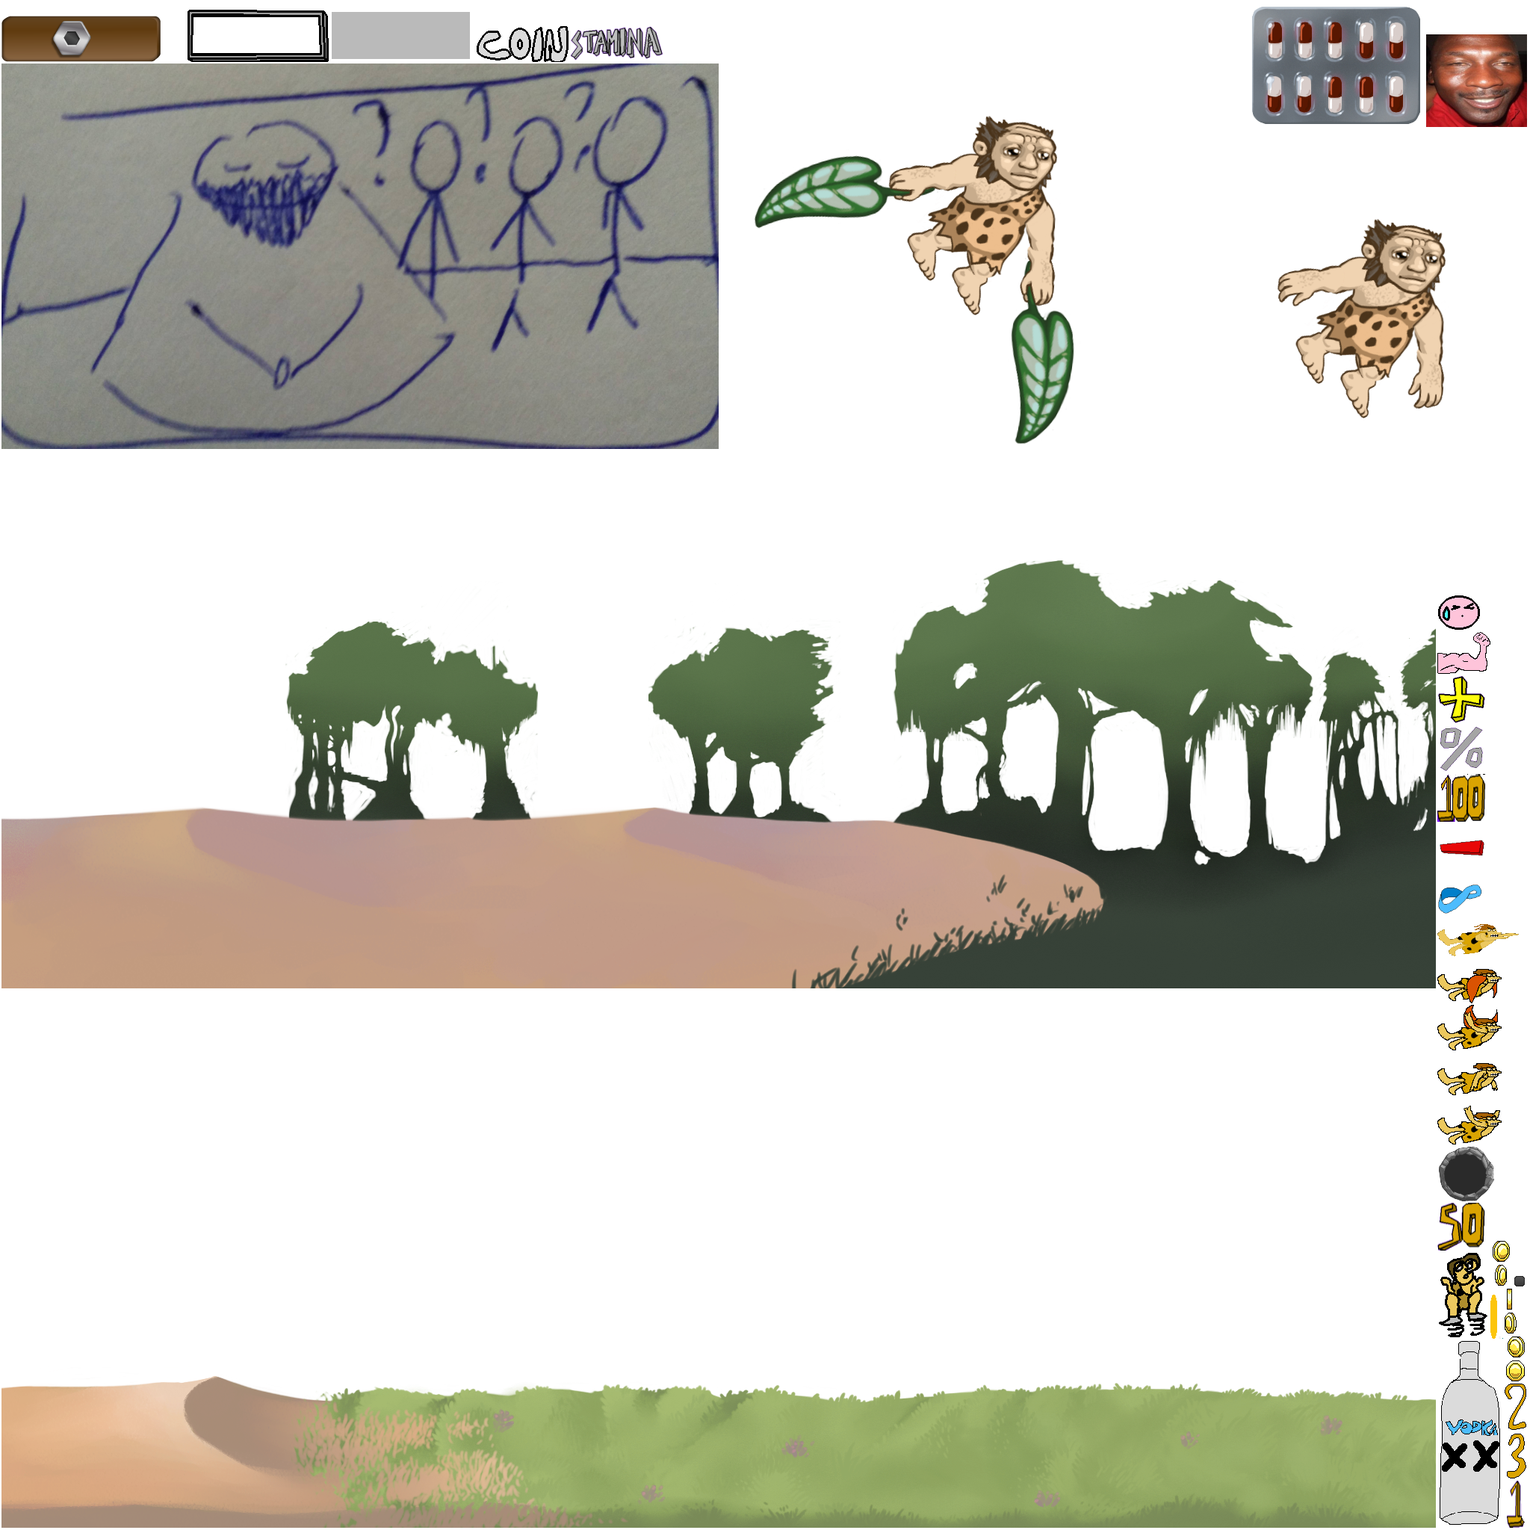
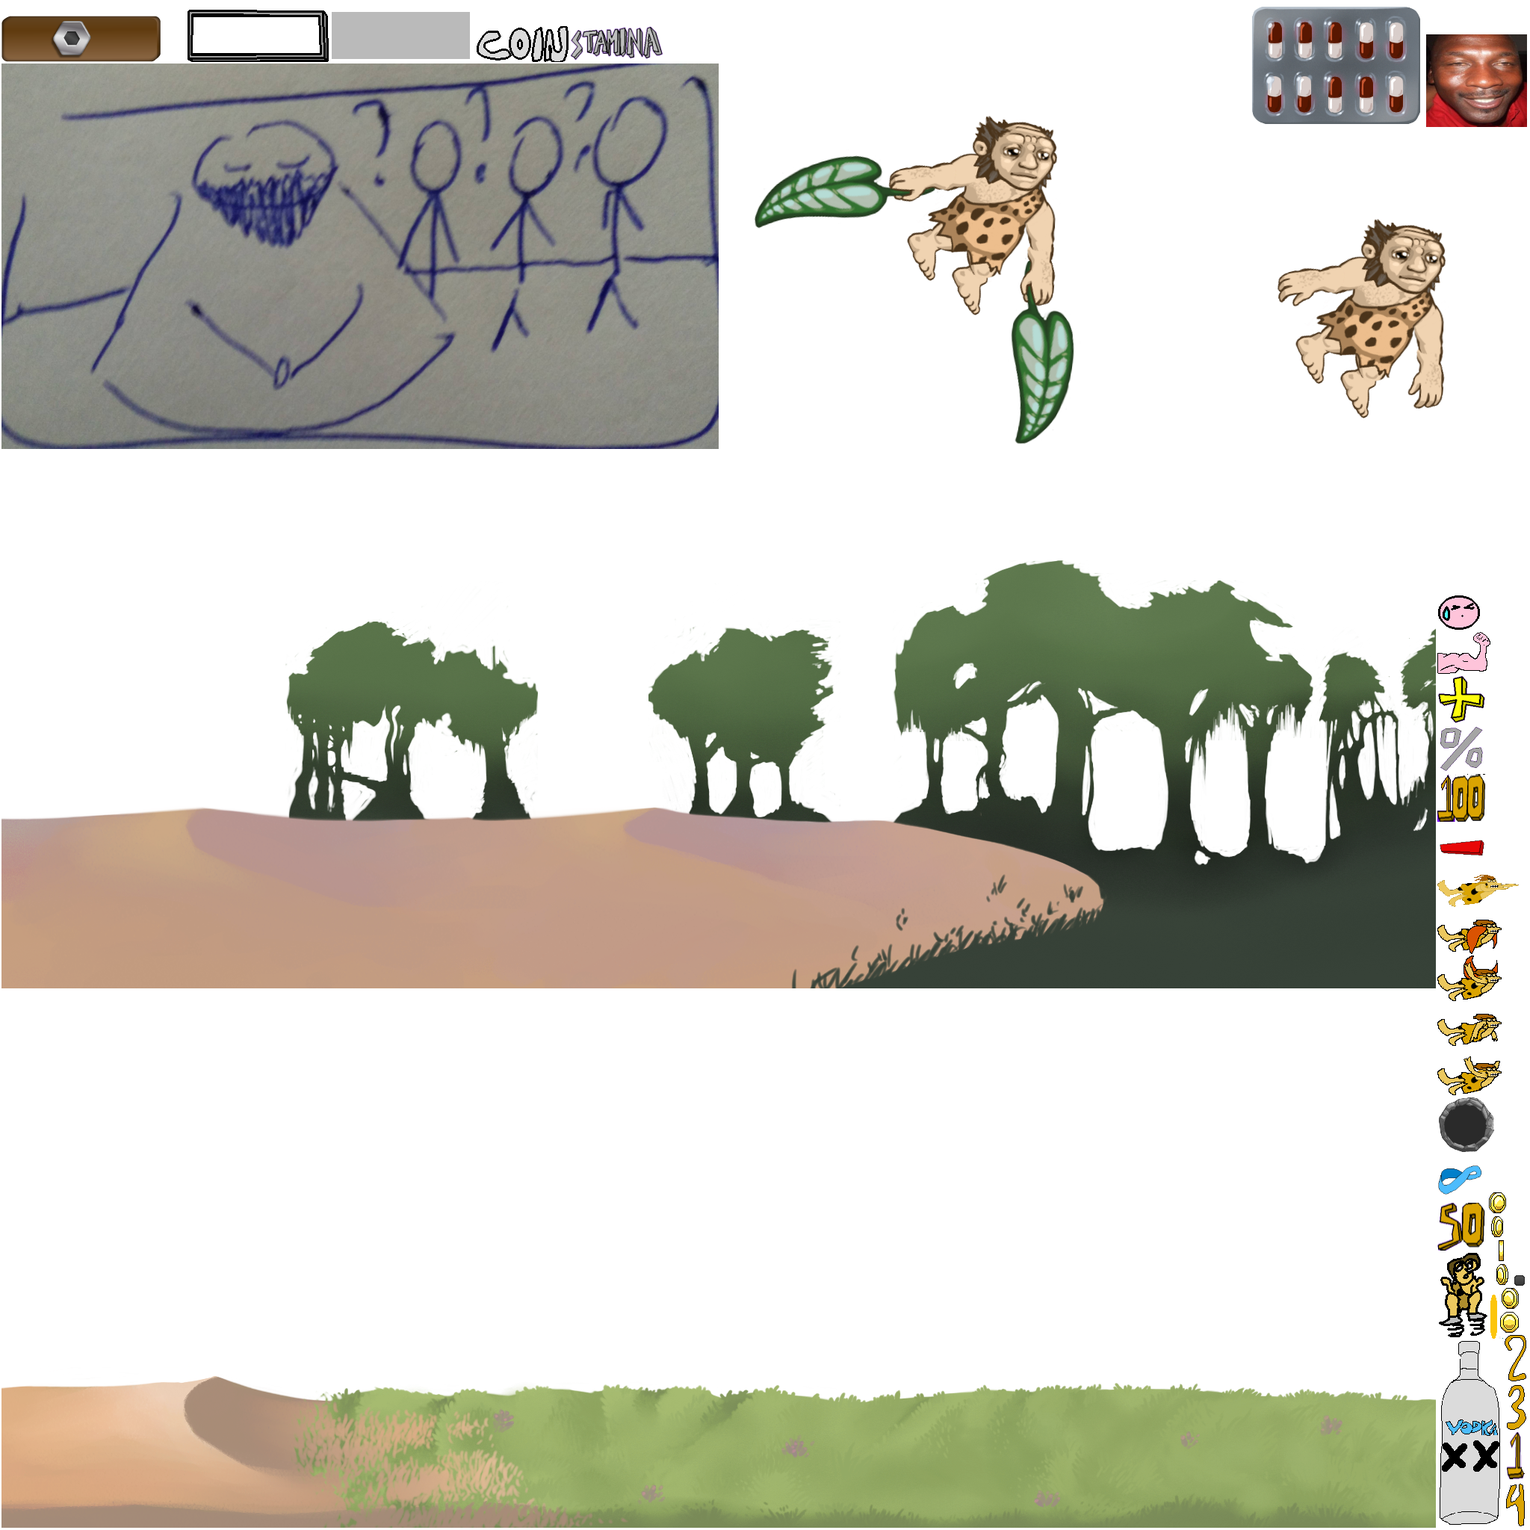
:trihard:  coin streak feedback UI

Changed region(s): [[0.9375, 0.5625, 1.0, 1.0]]

diff --git a/core/src/com/deeep/flycaveman/widgets/PickupsWidget.java b/core/src/com/deeep/flycaveman/widgets/PickupsWidget.java
@@ -13,7 +13,7 @@ import com.deeep.flycaveman.entities.PowerUp;
  * Created by scanevaro on 07/04/2015.
  */
 public class PickupsWidget extends Actor {
-    private Image stamina, percentage, plus, minus, infinite, one, five;
+    private Image stamina, percentage, plus, minus, infinite, one, five, coin, oneCoin, twoCoin, threeCoin, fourCoin;
 
     public PickupsWidget() {
         stamina = new Image(Assets.staminaText);
@@ -41,6 +41,21 @@ public class PickupsWidget extends Actor {
         minus.setSize(minus.getPrefWidth(), minus.getPrefHeight());
         minus.setPosition(-minus.getWidth() - five.getWidth() - percentage.getWidth(),
                 Core.VIRTUAL_HEIGHT / 2 - (minus.getHeight() / 2) + 50);
+        coin = new Image(Assets.coinText);
+        coin.setSize(coin.getPrefWidth(), coin.getPrefHeight());
+        coin.setPosition(-coin.getWidth() - 20, Core.VIRTUAL_HEIGHT / 2 - (coin.getHeight() * 2) + 50);
+        oneCoin = new Image(Assets.oneCoin);
+        oneCoin.setSize(oneCoin.getPrefWidth(), oneCoin.getPrefHeight());
+        oneCoin.setPosition(-oneCoin.getWidth() - 20, Core.VIRTUAL_HEIGHT / 2 - (oneCoin.getHeight() / 2) + 50);
+        twoCoin = new Image(Assets.twoCoin);
+        twoCoin.setSize(twoCoin.getPrefWidth(), twoCoin.getPrefHeight());
+        twoCoin.setPosition(-twoCoin.getWidth() - 20, Core.VIRTUAL_HEIGHT / 2 - (twoCoin.getHeight() / 2) + 50);
+        threeCoin = new Image(Assets.threeCoin);
+        threeCoin.setSize(threeCoin.getPrefWidth(), threeCoin.getPrefHeight());
+        threeCoin.setPosition(-threeCoin.getWidth() - 20, Core.VIRTUAL_HEIGHT / 2 - (threeCoin.getHeight() / 2) + 50);
+        fourCoin = new Image(Assets.fourCoin);
+        fourCoin.setSize(fourCoin.getPrefWidth(), fourCoin.getPrefHeight());
+        fourCoin.setPosition(-fourCoin.getWidth() - 20, Core.VIRTUAL_HEIGHT / 2 - (fourCoin.getHeight() / 2) + 50);
     }
 
     @Override
@@ -53,6 +68,11 @@ public class PickupsWidget extends Actor {
         percentage.act(delta);
         one.act(delta);
         five.act(delta);
+        coin.act(delta);
+        oneCoin.act(delta);
+        twoCoin.act(delta);
+        threeCoin.act(delta);
+        fourCoin.act(delta);
     }
 
     @Override
@@ -64,97 +84,187 @@ public class PickupsWidget extends Actor {
         percentage.draw(batch, parentAlpha);
         one.draw(batch, parentAlpha);
         five.draw(batch, parentAlpha);
+        coin.draw(batch, parentAlpha);
+        oneCoin.draw(batch, parentAlpha);
+        twoCoin.draw(batch, parentAlpha);
+        threeCoin.draw(batch, parentAlpha);
+        fourCoin.draw(batch, parentAlpha);
+    }
+
+    public void show(int coinStreak) {
+        switch (coinStreak) {
+            case 0:
+                coin.addAction(new SequenceAction(
+                        Actions.moveTo(20, Core.VIRTUAL_HEIGHT / 2 - (coin.getHeight() * 2) + 50, 0.2f),
+                        Actions.scaleBy(0.25f, 0.25f, 0.2f), Actions.scaleBy(-0.25f, -0.25f, 0.2f),
+                        Actions.delay(0.35f),
+                        Actions.moveTo(-coin.getWidth() - 20,
+                                Core.VIRTUAL_HEIGHT / 2 - (coin.getHeight() * 2) + 50, 0.2f)));
+                oneCoin.addAction(new SequenceAction(
+                        Actions.moveTo(64, Core.VIRTUAL_HEIGHT / 2 - (oneCoin.getHeight() / 2) + 50, 0.2f),
+                        Actions.scaleBy(0.25f, 0.25f, 0.2f), Actions.scaleBy(-0.25f, -0.25f, 0.2f),
+                        Actions.delay(0.35f),
+                        Actions.moveTo(-oneCoin.getWidth(),
+                                Core.VIRTUAL_HEIGHT / 2 - (oneCoin.getHeight() / 2) + 50, 0.2f)));
+                plus.addAction(new SequenceAction(
+                        Actions.moveTo(0, Core.VIRTUAL_HEIGHT / 2 - (plus.getHeight() / 2) + 50, 0.2f),
+                        Actions.scaleBy(0.25f, 0.25f, 0.2f), Actions.scaleBy(-0.25f, -0.25f, 0.2f),
+                        Actions.delay(0.35f),
+                        Actions.moveTo(-plus.getWidth() - oneCoin.getWidth(),
+                                Core.VIRTUAL_HEIGHT / 2 - (plus.getHeight() / 2) + 50, 0.2f)));
+                break;
+            case 1:
+                coin.addAction(new SequenceAction(
+                        Actions.moveTo(20, Core.VIRTUAL_HEIGHT / 2 - (coin.getHeight() * 2) + 50, 0.2f),
+                        Actions.scaleBy(0.35f, 0.35f, 0.2f), Actions.scaleBy(-0.35f, -0.35f, 0.2f),
+                        Actions.delay(0.35f),
+                        Actions.moveTo(-coin.getWidth() - 20,
+                                Core.VIRTUAL_HEIGHT / 2 - (coin.getHeight() * 2) + 50, 0.2f)));
+                twoCoin.addAction(new SequenceAction(
+                        Actions.moveTo(64, Core.VIRTUAL_HEIGHT / 2 - (twoCoin.getHeight() / 2) + 50, 0.2f),
+                        Actions.scaleBy(0.35f, 0.35f, 0.2f), Actions.scaleBy(-0.35f, -0.35f, 0.2f),
+                        Actions.delay(0.35f),
+                        Actions.moveTo(-twoCoin.getWidth(),
+                                Core.VIRTUAL_HEIGHT / 2 - (twoCoin.getHeight() / 2) + 50, 0.2f)));
+                plus.addAction(new SequenceAction(
+                        Actions.moveTo(0, Core.VIRTUAL_HEIGHT / 2 - (plus.getHeight() / 2) + 50, 0.2f),
+                        Actions.scaleBy(0.35f, 0.35f, 0.2f), Actions.scaleBy(-0.35f, -0.35f, 0.2f),
+                        Actions.delay(0.35f),
+                        Actions.moveTo(-plus.getWidth() - twoCoin.getWidth(),
+                                Core.VIRTUAL_HEIGHT / 2 - (plus.getHeight() / 2) + 50, 0.2f)));
+                break;
+            case 2:
+                coin.addAction(new SequenceAction(
+                        Actions.moveTo(20, Core.VIRTUAL_HEIGHT / 2 - (coin.getHeight() * 2) + 50, 0.2f),
+                        Actions.scaleBy(0.45f, 0.45f, 0.2f), Actions.scaleBy(-0.45f, -0.45f, 0.2f),
+                        Actions.delay(0.35f),
+                        Actions.moveTo(-coin.getWidth() - 20,
+                                Core.VIRTUAL_HEIGHT / 2 - (coin.getHeight() * 2) + 50, 0.3f)));
+                threeCoin.addAction(new SequenceAction(
+                        Actions.moveTo(64, Core.VIRTUAL_HEIGHT / 2 - (threeCoin.getHeight() / 2) + 50, 0.2f),
+                        Actions.scaleBy(0.45f, 0.45f, 0.2f), Actions.scaleBy(-0.25f, -0.45f, 0.2f),
+                        Actions.delay(0.35f),
+                        Actions.moveTo(-threeCoin.getWidth(),
+                                Core.VIRTUAL_HEIGHT / 2 - (threeCoin.getHeight() / 2) + 50, 0.2f)));
+                plus.addAction(new SequenceAction(
+                        Actions.moveTo(0, Core.VIRTUAL_HEIGHT / 2 - (plus.getHeight() / 2) + 50, 0.2f),
+                        Actions.scaleBy(0.45f, 0.45f, 0.2f), Actions.scaleBy(-0.25f, -0.45f, 0.2f),
+                        Actions.delay(0.35f),
+                        Actions.moveTo(-plus.getWidth() - threeCoin.getWidth(),
+                                Core.VIRTUAL_HEIGHT / 2 - (plus.getHeight() / 2) + 50, 0.2f)));
+                break;
+            case 3:
+                coin.addAction(new SequenceAction(
+                        Actions.moveTo(20, Core.VIRTUAL_HEIGHT / 2 - (coin.getHeight() * 2) + 50, 0.2f),
+                        Actions.scaleBy(0.55f, 0.55f, 0.2f), Actions.scaleBy(-0.55f, -0.55f, 0.2f),
+                        Actions.delay(0.35f),
+                        Actions.moveTo(-coin.getWidth() - 20,
+                                Core.VIRTUAL_HEIGHT / 2 - (coin.getHeight() * 2) + 50, 0.2f)));
+                fourCoin.addAction(new SequenceAction(
+                        Actions.moveTo(128, Core.VIRTUAL_HEIGHT / 2 - (fourCoin.getHeight() / 2) + 50, 0.2f),
+                        Actions.scaleBy(0.55f, 0.55f, 0.2f), Actions.scaleBy(-0.55f, -0.55f, 0.2f),
+                        Actions.delay(0.35f),
+                        Actions.moveTo(-fourCoin.getWidth(),
+                                Core.VIRTUAL_HEIGHT / 2 - (fourCoin.getHeight() / 2) + 50, 0.2f)));
+                plus.addAction(new SequenceAction(
+                        Actions.moveTo(0, Core.VIRTUAL_HEIGHT / 2 - (plus.getHeight() / 2) + 50, 0.2f),
+                        Actions.scaleBy(0.55f, 0.55f, 0.2f), Actions.scaleBy(-0.55f, -0.55f, 0.2f),
+                        Actions.delay(0.35f),
+                        Actions.moveTo(-plus.getWidth() - fourCoin.getWidth(),
+                                Core.VIRTUAL_HEIGHT / 2 - (plus.getHeight() / 2) + 50, 0.2f)));
+                break;
+        }
     }
 
     public void show(PowerUp.Type type) {
         if (type == PowerUp.Type.VODKA) {
             stamina.addAction(new SequenceAction(
-                    Actions.moveTo(20, Core.VIRTUAL_HEIGHT / 2 - (stamina.getHeight() * 2) + 50, 0.3f),
+                    Actions.moveTo(20, Core.VIRTUAL_HEIGHT / 2 - (stamina.getHeight() * 2) + 50, 0.2f),
                     Actions.scaleBy(0.25f, 0.25f, 0.2f), Actions.scaleBy(-0.25f, -0.25f, 0.2f),
                     Actions.delay(0.35f),
                     Actions.moveTo(-stamina.getWidth() - 20,
-                            Core.VIRTUAL_HEIGHT / 2 - (stamina.getHeight() * 2) + 50, 0.3f)));
+                            Core.VIRTUAL_HEIGHT / 2 - (stamina.getHeight() * 2) + 50, 0.2f)));
             percentage.addAction(new SequenceAction(
-                    Actions.moveTo(128, Core.VIRTUAL_HEIGHT / 2 - (percentage.getHeight() / 2) + 50, 0.3f),
+                    Actions.moveTo(128, Core.VIRTUAL_HEIGHT / 2 - (percentage.getHeight() / 2) + 50, 0.2f),
                     Actions.scaleBy(0.25f, 0.25f, 0.2f), Actions.scaleBy(-0.25f, -0.25f, 0.2f),
                     Actions.delay(0.35f),
                     Actions.moveTo(-percentage.getWidth(),
-                            Core.VIRTUAL_HEIGHT / 2 - (percentage.getHeight() / 2) + 50, 0.3f)));
+                            Core.VIRTUAL_HEIGHT / 2 - (percentage.getHeight() / 2) + 50, 0.2f)));
             five.addAction(new SequenceAction(
-                    Actions.moveTo(64, Core.VIRTUAL_HEIGHT / 2 - (five.getHeight() / 2) + 50, 0.3f),
+                    Actions.moveTo(64, Core.VIRTUAL_HEIGHT / 2 - (five.getHeight() / 2) + 50, 0.2f),
                     Actions.scaleBy(0.25f, 0.25f, 0.2f), Actions.scaleBy(-0.25f, -0.25f, 0.2f),
                     Actions.delay(0.35f),
                     Actions.moveTo(-five.getWidth() - percentage.getWidth(),
                             Core.VIRTUAL_HEIGHT / 2 - (five.getHeight() / 2) + 50, 0.3f)));
             minus.addAction(new SequenceAction(
-                    Actions.moveTo(0, Core.VIRTUAL_HEIGHT / 2 - (minus.getHeight() / 2) + 50, 0.3f),
+                    Actions.moveTo(0, Core.VIRTUAL_HEIGHT / 2 - (minus.getHeight() / 2) + 50, 0.2f),
                     Actions.scaleBy(0.25f, 0.25f, 0.2f), Actions.scaleBy(-0.25f, -0.25f, 0.2f),
                     Actions.delay(0.35f),
                     Actions.moveTo(-minus.getWidth() - five.getWidth() - percentage.getWidth(),
-                            Core.VIRTUAL_HEIGHT / 2 - (minus.getHeight() / 2) + 50, 0.3f)));
+                            Core.VIRTUAL_HEIGHT / 2 - (minus.getHeight() / 2) + 50, 0.2f)));
         } else if (type == PowerUp.Type.SPINACH) {
             stamina.addAction(new SequenceAction(
-                    Actions.moveTo(20, Core.VIRTUAL_HEIGHT / 2 - (stamina.getHeight() * 2) + 50, 0.3f),
+                    Actions.moveTo(20, Core.VIRTUAL_HEIGHT / 2 - (stamina.getHeight() * 2) + 50, 0.2f),
                     Actions.scaleBy(0.25f, 0.25f, 0.2f), Actions.scaleBy(-0.25f, -0.25f, 0.2f),
                     Actions.delay(0.35f),
                     Actions.moveTo(-stamina.getWidth() - 20,
-                            Core.VIRTUAL_HEIGHT / 2 - (stamina.getHeight() * 2) + 50, 0.3f)));
+                            Core.VIRTUAL_HEIGHT / 2 - (stamina.getHeight() * 2) + 50, 0.2f)));
             infinite.addAction(new SequenceAction(
-                    Actions.moveTo(45, Core.VIRTUAL_HEIGHT / 2 - (infinite.getHeight() / 2) + 50, 0.3f),
+                    Actions.moveTo(45, Core.VIRTUAL_HEIGHT / 2 - (infinite.getHeight() / 2) + 50, 0.2f),
                     Actions.scaleBy(0.25f, 0.25f, 0.2f), Actions.scaleBy(-0.25f, -0.25f, 0.2f),
                     Actions.delay(0.35f),
                     Actions.moveTo(-infinite.getWidth() - 45,
-                            Core.VIRTUAL_HEIGHT / 2 - (infinite.getHeight() / 2) + 50, 0.3f)));
+                            Core.VIRTUAL_HEIGHT / 2 - (infinite.getHeight() / 2) + 50, 0.2f)));
         } else if (type == PowerUp.Type.SODACAN) {
             stamina.addAction(new SequenceAction(
-                    Actions.moveTo(20, Core.VIRTUAL_HEIGHT / 2 - (stamina.getHeight() * 2) + 50, 0.3f),
+                    Actions.moveTo(20, Core.VIRTUAL_HEIGHT / 2 - (stamina.getHeight() * 2) + 50, 0.2f),
                     Actions.scaleBy(0.25f, 0.25f, 0.2f), Actions.scaleBy(-0.25f, -0.25f, 0.2f),
                     Actions.delay(0.35f),
                     Actions.moveTo(-stamina.getWidth() - 20,
-                            Core.VIRTUAL_HEIGHT / 2 - (stamina.getHeight() * 2) + 50, 0.3f)));
+                            Core.VIRTUAL_HEIGHT / 2 - (stamina.getHeight() * 2) + 50, 0.2f)));
             percentage.addAction(new SequenceAction(
-                    Actions.moveTo(128, Core.VIRTUAL_HEIGHT / 2 - (percentage.getHeight() / 2) + 50, 0.3f),
+                    Actions.moveTo(128, Core.VIRTUAL_HEIGHT / 2 - (percentage.getHeight() / 2) + 50, 0.2f),
                     Actions.scaleBy(0.25f, 0.25f, 0.2f), Actions.scaleBy(-0.25f, -0.25f, 0.2f),
                     Actions.delay(0.35f),
                     Actions.moveTo(-percentage.getWidth(),
-                            Core.VIRTUAL_HEIGHT / 2 - (percentage.getHeight() / 2) + 50, 0.3f)));
+                            Core.VIRTUAL_HEIGHT / 2 - (percentage.getHeight() / 2) + 50, 0.2f)));
             five.addAction(new SequenceAction(
-                    Actions.moveTo(64, Core.VIRTUAL_HEIGHT / 2 - (five.getHeight() / 2) + 50, 0.3f),
+                    Actions.moveTo(64, Core.VIRTUAL_HEIGHT / 2 - (five.getHeight() / 2) + 50, 0.2f),
                     Actions.scaleBy(0.25f, 0.25f, 0.2f), Actions.scaleBy(-0.25f, -0.25f, 0.2f),
                     Actions.delay(0.35f),
                     Actions.moveTo(-five.getWidth() - percentage.getWidth(),
-                            Core.VIRTUAL_HEIGHT / 2 - (five.getHeight() / 2) + 50, 0.3f)));
+                            Core.VIRTUAL_HEIGHT / 2 - (five.getHeight() / 2) + 50, 0.2f)));
             plus.addAction(new SequenceAction(
-                    Actions.moveTo(0, Core.VIRTUAL_HEIGHT / 2 - (plus.getHeight() / 2) + 50, 0.3f),
+                    Actions.moveTo(0, Core.VIRTUAL_HEIGHT / 2 - (plus.getHeight() / 2) + 50, 0.2f),
                     Actions.scaleBy(0.25f, 0.25f, 0.2f), Actions.scaleBy(-0.25f, -0.25f, 0.2f),
                     Actions.delay(0.35f),
                     Actions.moveTo(-plus.getWidth() - five.getWidth() - percentage.getWidth(),
-                            Core.VIRTUAL_HEIGHT / 2 - (plus.getHeight() / 2) + 50, 0.3f)));
+                            Core.VIRTUAL_HEIGHT / 2 - (plus.getHeight() / 2) + 50, 0.2f)));
         } else if (type == PowerUp.Type.MEAT) {
             stamina.addAction(new SequenceAction(
-                    Actions.moveTo(20, Core.VIRTUAL_HEIGHT / 2 - (stamina.getHeight() * 2) + 50, 0.3f),
+                    Actions.moveTo(20, Core.VIRTUAL_HEIGHT / 2 - (stamina.getHeight() * 2) + 50, 0.2f),
                     Actions.scaleBy(0.25f, 0.25f, 0.2f), Actions.scaleBy(-0.25f, -0.25f, 0.2f),
                     Actions.delay(0.35f),
                     Actions.moveTo(-stamina.getWidth() - 20,
-                            Core.VIRTUAL_HEIGHT / 2 - (stamina.getHeight() * 2) + 50, 0.3f)));
+                            Core.VIRTUAL_HEIGHT / 2 - (stamina.getHeight() * 2) + 50, 0.2f)));
             percentage.addAction(new SequenceAction(
-                    Actions.moveTo(128, Core.VIRTUAL_HEIGHT / 2 - (percentage.getHeight() / 2) + 50, 0.3f),
+                    Actions.moveTo(128, Core.VIRTUAL_HEIGHT / 2 - (percentage.getHeight() / 2) + 50, 0.2f),
                     Actions.scaleBy(0.25f, 0.25f, 0.2f), Actions.scaleBy(-0.25f, -0.25f, 0.2f),
                     Actions.delay(0.35f),
                     Actions.moveTo(-percentage.getWidth(),
-                            Core.VIRTUAL_HEIGHT / 2 - (percentage.getHeight() / 2) + 50, 0.3f)));
+                            Core.VIRTUAL_HEIGHT / 2 - (percentage.getHeight() / 2) + 50, 0.2f)));
             one.addAction(new SequenceAction(
-                    Actions.moveTo(64, Core.VIRTUAL_HEIGHT / 2 - (one.getHeight() / 2) + 50, 0.3f),
+                    Actions.moveTo(64, Core.VIRTUAL_HEIGHT / 2 - (one.getHeight() / 2) + 50, 0.2f),
                     Actions.scaleBy(0.25f, 0.25f, 0.2f), Actions.scaleBy(-0.25f, -0.25f, 0.2f),
                     Actions.delay(0.25f),
                     Actions.moveTo(-one.getWidth() - percentage.getWidth(),
-                            Core.VIRTUAL_HEIGHT / 2 - (one.getHeight() / 2) + 50, 0.3f)));
+                            Core.VIRTUAL_HEIGHT / 2 - (one.getHeight() / 2) + 50, 0.2f)));
             plus.addAction(new SequenceAction(
-                    Actions.moveTo(0, Core.VIRTUAL_HEIGHT / 2 - (plus.getHeight() / 2) + 50, 0.3f),
+                    Actions.moveTo(0, Core.VIRTUAL_HEIGHT / 2 - (plus.getHeight() / 2) + 50, 0.2f),
                     Actions.scaleBy(0.25f, 0.25f, 0.2f), Actions.scaleBy(-0.25f, -0.25f, 0.2f),
                     Actions.delay(0.35f),
                     Actions.moveTo(-plus.getWidth() - one.getWidth() - percentage.getWidth(),
-                            Core.VIRTUAL_HEIGHT / 2 - (plus.getHeight() / 2) + 50, 0.3f)));
+                            Core.VIRTUAL_HEIGHT / 2 - (plus.getHeight() / 2) + 50, 0.2f)));
         }
     }
 }

diff --git a/core/src/com/deeep/flycaveman/Assets.java b/core/src/com/deeep/flycaveman/Assets.java
@@ -44,7 +44,8 @@ public class Assets {
             starBright, buyButtonDisabled, tree, mute1Button, mute2Button, resumeButton, magnet, clench, intro1, intro2,
             intro3, intro4, intro5, tutorial0, tutorial1, tutorial2, tutorial3, tutorial4, tutorial20, tutorial21,
             tutorial22, tutorial23, tutorial24, touch2, toucanTexture, toucanHit, argenTexture, argenHit, staminaText,
-            plus, minus, infinite, percentage, one, five, cloud1, cloud2, cloud3;
+            plus, minus, infinite, percentage, one, five, cloud1, cloud2, cloud3, coinText, oneCoin, twoCoin, threeCoin,
+            fourCoin;
     public static Animation cavemanWings, cavemanFlap, cavemanSprings, cavemanFly;
     public static TextureRegion dessert_layer_1, dessert_layer_2, dessert_layer_3,
             dessert_layer_4;  //todo put this in an enum or so
@@ -247,6 +248,11 @@ public class Assets {
         percentage = items.findRegion("percentage");
         one = items.findRegion("one");
         five = items.findRegion("five");
+        coinText = items.findRegion("coinText");
+        oneCoin = items.findRegion("oneCoin");
+        twoCoin = items.findRegion("twoCoin");
+        threeCoin = items.findRegion("threeCoin");
+        fourCoin = items.findRegion("fourCoin");
 
         cavemanWings = new Animation(0.1f, items.findRegion("cavemanWings1"), items.findRegion("cavemanWings2"));
         cavemanWings.setPlayMode(Animation.PlayMode.LOOP);

diff --git a/core/src/com/deeep/flycaveman/input/GameContactListener.java b/core/src/com/deeep/flycaveman/input/GameContactListener.java
@@ -109,6 +109,7 @@ public class GameContactListener implements ContactListener {
                 //        world.area.soundManager.playSound(Assets.coin4_sound);
                 //        break;
                 //}
+                screen.pickupsWidget.show(world.caveman.coinStreak);
                 world.caveman.coinStreak++;
                 if (world.caveman.coinStreak > 3) world.caveman.coinStreak = 3;
                 if (fixtureA.getUserData() instanceof Coin) world.coinSpawner.remove((Coin) fixtureA.getUserData());
